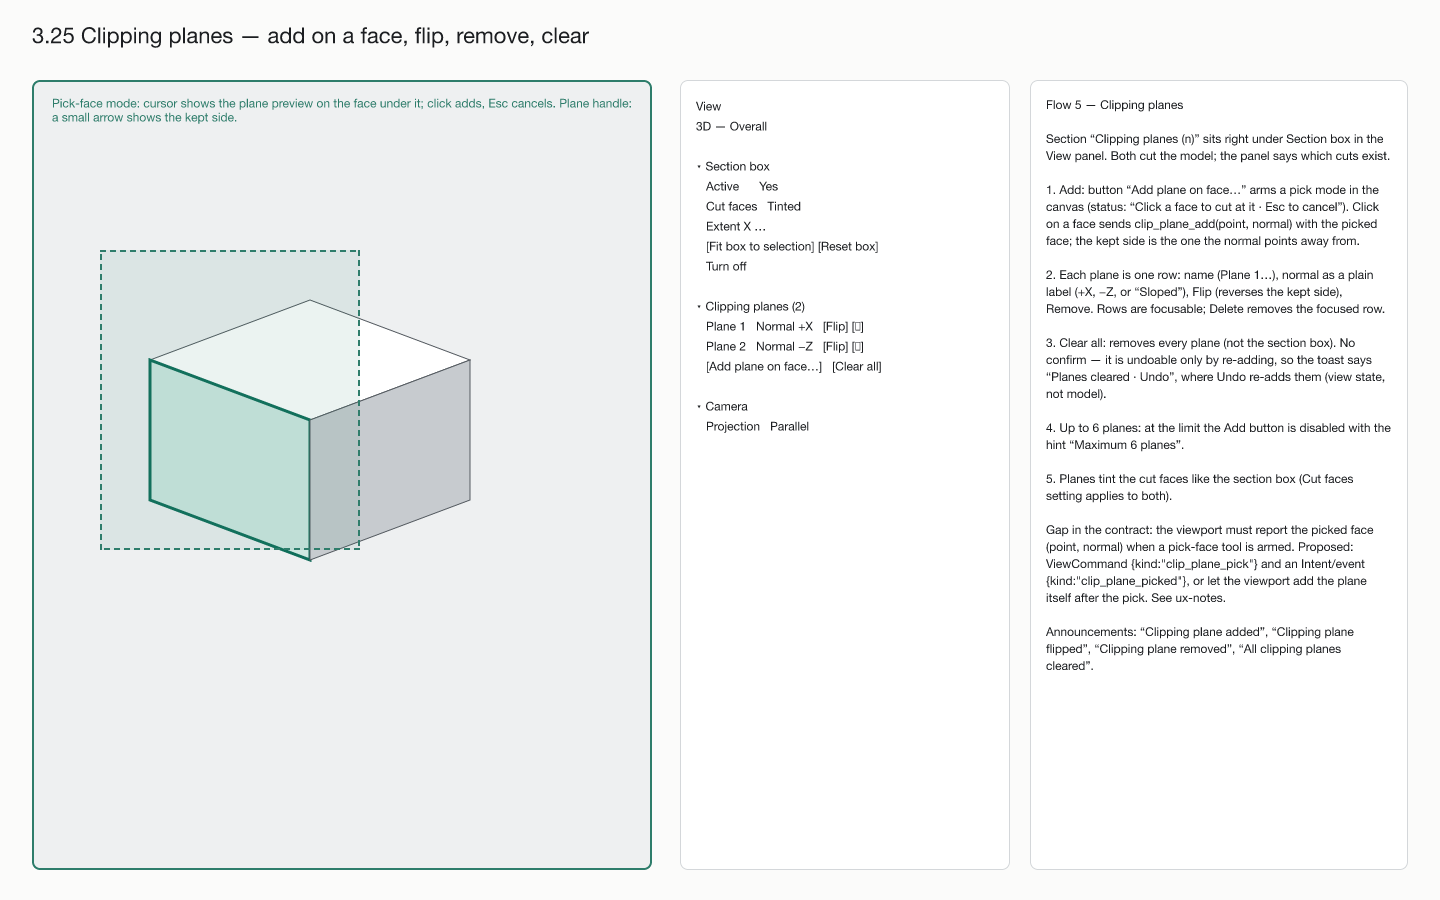
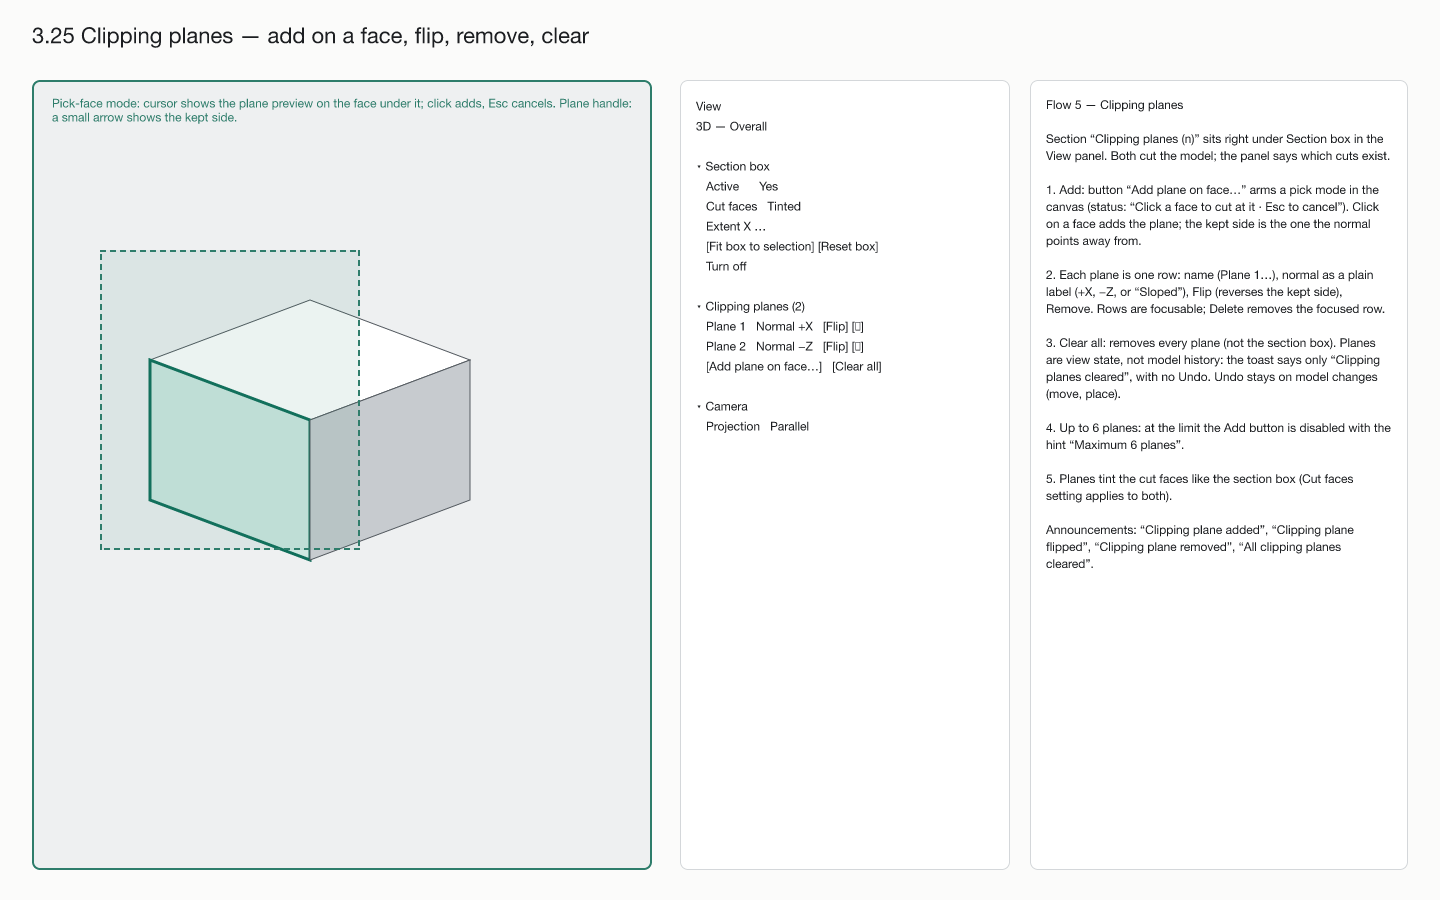
docs(design): fix viewport UX notes after review (VP-01, VP-03, Refs #67)
No-WebGPU copy no longer promises plan views or schedules, clipping-plane
clearing has no Undo (view state), typed distance is metres only, shortcuts
need an opt-out and key-code matching, drop the duplicate selection.cleared key.

Changed region(s): [[0.7188, 0.56, 0.9688, 0.7467], [0.7188, 0.3733, 0.9688, 0.4667], [0.7188, 0.2489, 0.9375, 0.28]]

diff --git a/.orchestrator/features/epic-3d-viewport/design/ux-notes.md b/.orchestrator/features/epic-3d-viewport/design/ux-notes.md
@@ -34,10 +34,10 @@ Hover: amber outline. Selected: teal outline + tint, 3 px with a contrasting hal
 `B` → first corner (snap marker + label chip) → second corner (dashed rectangle with live "6.00 × 4.00 m") → height (pointer up/down or typed; Enter at once = 3.00 m) → block placed and selected, toast "Block placed · … · Undo". Tool stays armed; Esc or `V` returns to Select. Esc cancels one step at a time. Alt suspends snapping.
 
 ### 4 Move
-Direct: drag a selected element (unselected → selected first); ghost stays at the origin. Move tool (`M`, needs a selection): base point → target point with rubber-band line and distance chip; typed distance along the current direction (`2.5`, `2500mm`), Enter confirms. Snaps: endpoint, midpoint, edge, face, ground; Alt held suspends; `S` toggles. Result toast "Moved 1 element by 2.500 m · Undo". Refused move: toast "Can't move this element yet".
+Direct: drag a selected element (unselected → selected first); ghost stays at the origin. Move tool (`M`, needs a selection): base point → target point with rubber-band line and distance chip; typed distance along the current direction in metres (`2.5`; no unit suffix in the MVP, because letters are global shortcuts), Enter confirms. Snaps: endpoint, midpoint, edge, face, ground; Alt held suspends; `S` toggles. Result toast "Moved 1 element by 2.500 m · Undo". Refused move: toast "Can't move this element yet".
 
 ### 5 Clipping planes
-"Add plane on face…" arms a pick mode ("Click a face to cut at it · Esc to cancel"); click adds, plane tints cut faces like the section box. Flip, Remove, Clear all (toast with Undo that re-adds, view state only). Delete removes the focused row.
+"Add plane on face…" arms a pick mode ("Click a face to cut at it · Esc to cancel"); click adds, plane tints cut faces like the section box. Flip, Remove, Clear all (toast "Clipping planes cleared", no Undo: planes are view state, not model history). Delete removes the focused row.
 
 ### 6 Section box and visibility
 Alt+B toggles the box; Min/Max fields in the panel (Enter applies, Esc restores, min ≥ max shows "Minimum must be below maximum" and is not sent). Visibility popover: Enter/Space opens, tablist ←→, rows ↑↓ Space / Shift+Space, Esc closes and returns focus. `H`, `I`, `Alt+H` global.
@@ -45,7 +45,7 @@ Alt+B toggles the box; Min/Max fields in the panel (Enter applies, Esc restores,
 ### 7 States
 - **Empty**: grid and axes, "Nothing to see yet — Place a block to start your model", button "Place a block B", link to the guide.
 - **Loading**: spinner, "Loading the 3D view…", controls disabled; after 10 s "Still working…" + Cancel.
-- **No WebGPU**: "The 3D view isn't available on this computer"; what still works (plan, sections, schedules, editing); "Open the troubleshooting guide", "Go to the plan view".
+- **No WebGPU**: "The 3D view isn't available on this computer"; what still works (your project, its panels and editing); one button, "Open the troubleshooting guide".
 - **Device lost / scene rejected / out of memory**: "The 3D view stopped" + a one-line cause per `error.key`, "Reload view" (focused, `role="alert"`), "Copy details" (no model content). Reload = new `Viewport.create` + `scene(since: null)`. Second failure within 30 s adds "If it keeps happening, restart BIMCraft."
 
 ## Keyboard map (confirmed unless marked NEW)
@@ -71,7 +71,7 @@ Alt+B toggles the box; Min/Max fields in the panel (Enter applies, Esc restores,
 | Toggle snapping | `S` — **NEW** | global |
 | Visibility popover rows | ↑ ↓ Home End, Space hide, Shift+Space isolate | popover |
 
-Global shortcuts are quiet behind dialogs and inside text fields. `Alt+B` / `Alt+H` types a symbol on some macOS layouts inside text fields only; inside fields the shell already ignores shortcuts, so no change is proposed. Presets and Clear planes have no shortcut (menu / panel only) to keep the letter space free.
+Global shortcuts are quiet behind dialogs and inside text fields. The single-letter ones (`V`, `M`, `B`, `H`, `I`, `S`, `P`) must also be switchable off in the settings (WCAG 2.1.4 Character Key Shortcuts, part of the AA target). The shell matches `Alt+` shortcuts on `KeyboardEvent.code`, not `key`, because on macOS Option+letter produces a symbol as `key` even outside text fields. Presets and Clear planes have no shortcut (menu / panel only) to keep the letter space free.
 
 ## Proposed changes to `api-contract.md` §2 (lead decides; I do not edit it)
 
@@ -79,7 +79,7 @@ Global shortcuts are quiet behind dialogs and inside text fields. `Alt+B` / `Alt
 2. **Clip plane on a picked face is missing.** `clip_plane_add` needs a point and a normal that only the viewport knows (it picks on the CPU). Proposed: `ViewCommand { kind: "clip_plane_pick" }` arms a one-shot pick; the viewport adds the plane itself and reports it in `ViewState.clipPlanes`; Esc cancels. (Alternative: a `clip_plane_picked` event the UI turns into `clip_plane_add`. The first is simpler and keeps interaction in Rust, D5.) `tool_state.step` needs a `"pick_face"` value, or a new `Tool = "clip_plane"`.
 3. **Add a `ViewCommand { kind: "clip_plane_flip"; index: number }`**: Flip must not be remove + add (the row would move).
 4. **Add `view_state.snapping: boolean`** so the status bar shows the snap state after `S` / Alt (UI holds no state).
-5. **Announcement keys to add**: `view.preset`, `view.projection`, `selection.cleared`, `visibility.hidden`, `visibility.isolated`, `visibility.reset`, `clip_plane.added`, `clip_plane.flipped`, `clip_plane.removed`, `clip_plane.cleared`, `move.cancelled`, `place.height`. Strings below.
+5. **Announcement keys to add**: `view.preset`, `view.projection`, `visibility.hidden`, `visibility.isolated`, `visibility.reset`, `clip_plane.added`, `clip_plane.flipped`, `clip_plane.removed`, `clip_plane.cleared`, `move.cancelled`, `place.height`. Strings below.
 6. **`typed_distance` for place_block** carries only one number: width, depth and height are three successive values, each confirmed with Enter (not Tab). Confirm the Rust side treats each Enter as the next step.
 7. **`error.key`** gets no change; the UI maps the three keys to the strings below.
 
@@ -123,8 +123,8 @@ Numbers are formatted by the UI with the locale's decimal separator (FR: "2,5").
 | Loading | Loading the 3D view… | Chargement de la vue 3D… |
 | Loading, slow | Still working… | Toujours en cours… |
 | No WebGPU title | The 3D view isn't available on this computer | La vue 3D n'est pas disponible sur cet ordinateur |
-| No WebGPU body | BIMCraft draws 3D with your graphics card through a feature called WebGPU, and this computer doesn't offer it. Plan views, sections, schedules and editing still work. | BIMCraft affiche la 3D avec votre carte graphique grâce à WebGPU, que cet ordinateur ne propose pas. Les plans, coupes, nomenclatures et l'édition restent disponibles. |
-| No WebGPU buttons | Open the troubleshooting guide · Go to the plan view | Ouvrir le guide de dépannage · Aller au plan |
+| No WebGPU body | BIMCraft draws 3D with your graphics card through a feature called WebGPU, and this computer doesn't offer it. Your project, its panels and editing still work. | BIMCraft affiche la 3D avec votre carte graphique grâce à WebGPU, que cet ordinateur ne propose pas. Votre projet, ses panneaux et l'édition restent disponibles. |
+| No WebGPU button | Open the troubleshooting guide | Ouvrir le guide de dépannage |
 | Error title | The 3D view stopped | La vue 3D s'est arrêtée |
 | `device_lost` | The graphics card stopped responding. Your model is safe. | La carte graphique ne répond plus. Votre modèle est intact. |
 | `scene_rejected` | The view couldn't read the model data. Your model is safe. | La vue n'a pas pu lire les données du modèle. Votre modèle est intact. |
@@ -137,7 +137,7 @@ Numbers are formatted by the UI with the locale's decimal separator (FR: "2,5").
 | Move with no selection | Select something to move | Sélectionnez d'abord un élément à déplacer |
 | Clip pick hint | Click a face to cut at it · Esc to cancel | Cliquez sur une face pour couper à cet endroit · Échap pour annuler |
 | Clip max | Maximum 6 planes | 6 plans au maximum |
-| Planes cleared toast | Planes cleared · Undo | Plans supprimés · Annuler |
+| Planes cleared toast (no Undo) | Clipping planes cleared | Plans de coupe supprimés |
 | Box field error | Minimum must be below maximum | Le minimum doit être inférieur au maximum |
 | Section box hint | drag a handle or type values in the View panel · Shift for 100 mm steps | faites glisser une poignée ou saisissez des valeurs dans le panneau Vue · Maj pour des pas de 100 mm |
 | Snap off chip | Snap off | Accroche désactivée |
